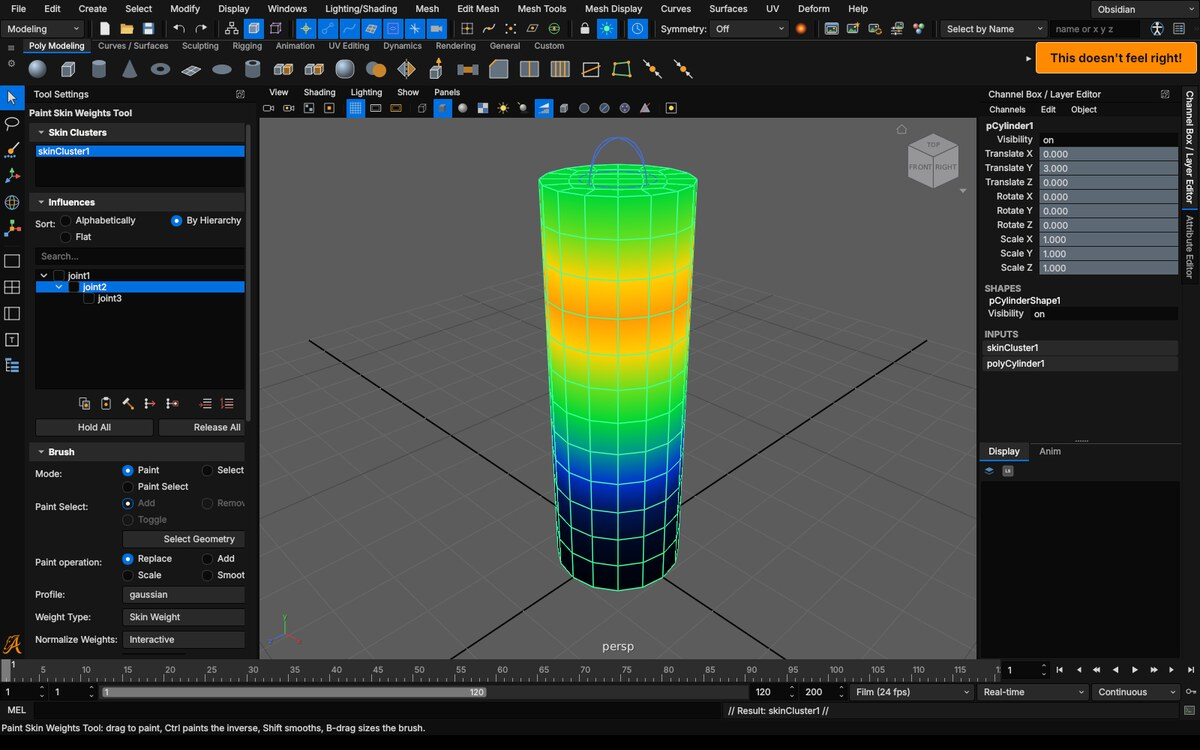
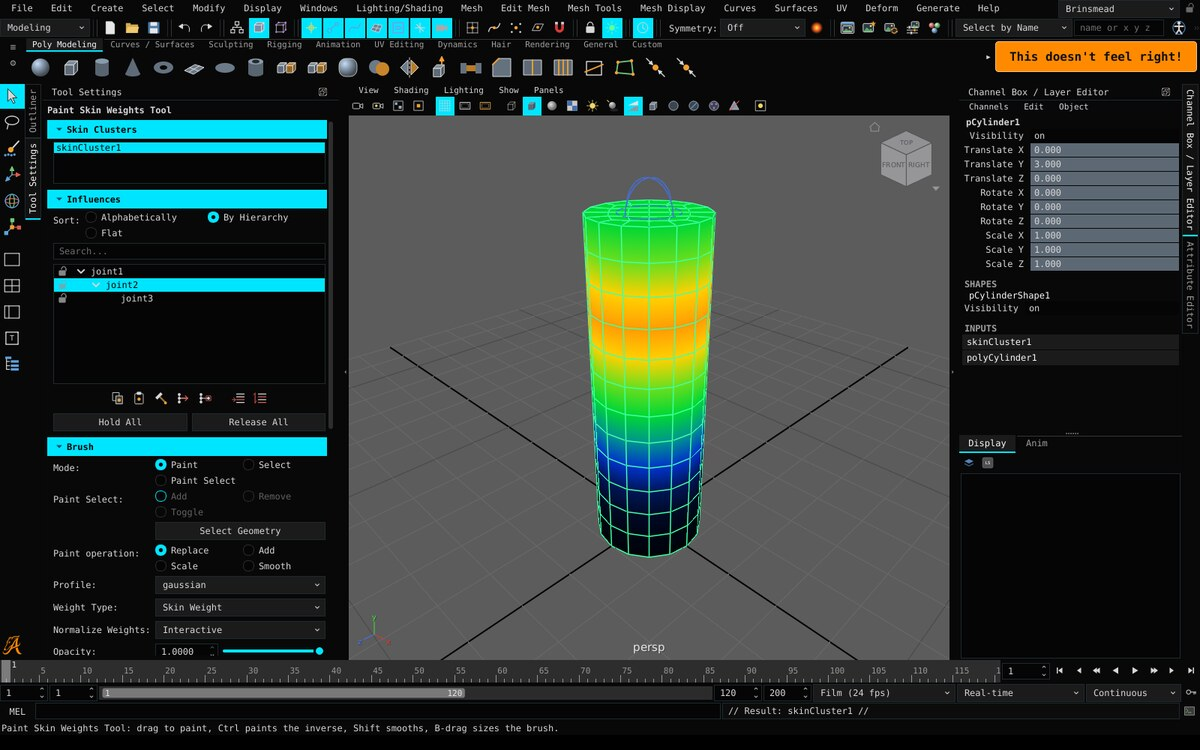
Themes: every named theme gets its own look instead of tonal variations of one; Brinsmead black and cyan with monospaced type, Flav charcoal and tangerine with geometric type and pills, KevinP navy and gold with serif type and italic menus, Boisvert and MNovacek on rounded and geometric type, Spring

diff --git a/site/index.html b/site/index.html
@@ -352,16 +352,16 @@ git push --mirror &lt;your repository's URL&gt;</code></pre>
   <h3>Dark</h3>
   <div class="theme-grid">
     <figure><a href="img/theme-classic.jpg"><img src="img/theme-classic.jpg" alt="Aztek in the Aztek Classic theme" loading="lazy"></a><figcaption><b>Aztek Classic</b> The industry-standard look, and the default.</figcaption></figure>
-    <figure><a href="img/theme-obsidian.jpg"><img src="img/theme-obsidian.jpg" alt="Aztek in the Brinsmead theme" loading="lazy"></a><figcaption><b>Brinsmead</b> Near-black and flat, after the game engine editors.</figcaption></figure>
-    <figure><a href="img/theme-carbon.jpg"><img src="img/theme-carbon.jpg" alt="Aztek in the Flav theme" loading="lazy"></a><figcaption><b>Flav</b> Charcoal, teal, soft corners.</figcaption></figure>
-    <figure><a href="img/theme-midnight.jpg"><img src="img/theme-midnight.jpg" alt="Aztek in the KevinP theme" loading="lazy"></a><figcaption><b>KevinP</b> Blue-black.</figcaption></figure>
-    <figure><a href="img/theme-dracula.jpg"><img src="img/theme-dracula.jpg" alt="Aztek in the Boisvert theme" loading="lazy"></a><figcaption><b>Boisvert</b></figcaption></figure>
-    <figure><a href="img/theme-solarized-dark.jpg"><img src="img/theme-solarized-dark.jpg" alt="Aztek in the Springer theme" loading="lazy"></a><figcaption><b>Springer</b></figcaption></figure>
-    <figure><a href="img/theme-graphite.jpg"><img src="img/theme-graphite.jpg" alt="Aztek in the JGibson theme" loading="lazy"></a><figcaption><b>JGibson</b> Neutral dark with a soft gradient.</figcaption></figure>
-    <figure><a href="img/theme-nord.jpg"><img src="img/theme-nord.jpg" alt="Aztek in the MNovacek theme" loading="lazy"></a><figcaption><b>MNovacek</b></figcaption></figure>
-    <figure><a href="img/theme-slate.jpg"><img src="img/theme-slate.jpg" alt="Aztek in the Ozymok theme" loading="lazy"></a><figcaption><b>Ozymok</b> Mid grey, gradient buttons.</figcaption></figure>
+    <figure><a href="img/theme-obsidian.jpg"><img src="img/theme-obsidian.jpg" alt="Aztek in the Brinsmead theme" loading="lazy"></a><figcaption><b>Brinsmead</b> Pure black and electric cyan, monospaced type, square corners, cyan section bars.</figcaption></figure>
+    <figure><a href="img/theme-carbon.jpg"><img src="img/theme-carbon.jpg" alt="Aztek in the Flav theme" loading="lazy"></a><figcaption><b>Flav</b> Charcoal and tangerine, geometric type, bold menus, borderless pills with big round corners.</figcaption></figure>
+    <figure><a href="img/theme-midnight.jpg"><img src="img/theme-midnight.jpg" alt="Aztek in the KevinP theme" loading="lazy"></a><figcaption><b>KevinP</b> Deep navy and gold, serif type with italic menus, round-topped tabs.</figcaption></figure>
+    <figure><a href="img/theme-dracula.jpg"><img src="img/theme-dracula.jpg" alt="Aztek in the Boisvert theme" loading="lazy"></a><figcaption><b>Boisvert</b> The Dracula scheme: pink highlights, purple section bars, rounded type, very round corners.</figcaption></figure>
+    <figure><a href="img/theme-solarized-dark.jpg"><img src="img/theme-solarized-dark.jpg" alt="Aztek in the Springer theme" loading="lazy"></a><figcaption><b>Springer</b> Solarized dark with its yellow and orange: condensed type, single bevels, square edges.</figcaption></figure>
+    <figure><a href="img/theme-graphite.jpg"><img src="img/theme-graphite.jpg" alt="Aztek in the JGibson theme" loading="lazy"></a><figcaption><b>JGibson</b> Forest green and lime, humanist type, soft gradients.</figcaption></figure>
+    <figure><a href="img/theme-nord.jpg"><img src="img/theme-nord.jpg" alt="Aztek in the MNovacek theme" loading="lazy"></a><figcaption><b>MNovacek</b> The Nord scheme: frost blues, geometric type, borderless, round-topped tabs.</figcaption></figure>
+    <figure><a href="img/theme-slate.jpg"><img src="img/theme-slate.jpg" alt="Aztek in the Ozymok theme" loading="lazy"></a><figcaption><b>Ozymok</b> Plum and hot pink, Gill-style type with italic menus, gradient buttons with a single bevel.</figcaption></figure>
     <figure><a href="img/theme-alias.jpg"><img src="img/theme-alias.jpg" alt="Aztek in the Alias theme" loading="lazy"></a><figcaption><b>Alias</b> The late-90s animation package's dark scheme: slate panels, white section bars, fixed-width type.</figcaption></figure>
-    <figure><a href="img/theme-pewter.jpg"><img src="img/theme-pewter.jpg" alt="Aztek in the PewterTureski theme" loading="lazy"></a><figcaption><b>PewterTureski</b> Warm mid grey with an orange accent.</figcaption></figure>
+    <figure><a href="img/theme-pewter.jpg"><img src="img/theme-pewter.jpg" alt="Aztek in the PewterTureski theme" loading="lazy"></a><figcaption><b>PewterTureski</b> Warm pewter grey and orange, wide Verdana-style type, double bevels, orange section bars.</figcaption></figure>
     <figure><a href="img/theme-shaq.jpg"><img src="img/theme-shaq.jpg" alt="Aztek in the Shaq theme" loading="lazy"></a><figcaption><b>Shaq</b> Near-black with bold violet highlights and gold section bars.</figcaption></figure>
   </div>
   <h3>Light</h3>
@@ -370,10 +370,10 @@ git push --mirror &lt;your repository's URL&gt;</code></pre>
     <figure><a href="img/theme-classic98.jpg"><img src="img/theme-classic98.jpg" alt="Aztek in the DonnieA theme" loading="lazy"></a><figcaption><b>DonnieA</b> Silver and navy, two-tone bevels, 1998.</figcaption></figure>
     <figure><a href="img/theme-workstation.jpg"><img src="img/theme-workstation.jpg" alt="Aztek in the Cattingway theme" loading="lazy"></a><figcaption><b>Cattingway</b> The light grey workstation desktop the industry-standard package first ran on.</figcaption></figure>
     <figure><a href="img/theme-poweranimator.jpg"><img src="img/theme-poweranimator.jpg" alt="Aztek in the Hourihan theme" loading="lazy"></a><figcaption><b>Hourihan</b> Light grey with mid grey fields and darker section bars, round-topped tabs.</figcaption></figure>
-    <figure><a href="img/theme-ash.jpg"><img src="img/theme-ash.jpg" alt="Aztek in the AshT theme" loading="lazy"></a><figcaption><b>AshT</b> Light grey modern.</figcaption></figure>
-    <figure><a href="img/theme-solarized-light.jpg"><img src="img/theme-solarized-light.jpg" alt="Aztek in the Buffin theme" loading="lazy"></a><figcaption><b>Buffin</b></figcaption></figure>
-    <figure><a href="img/theme-paper.jpg"><img src="img/theme-paper.jpg" alt="Aztek in the Royhall theme" loading="lazy"></a><figcaption><b>Royhall</b> Near white.</figcaption></figure>
-    <figure><a href="img/theme-lilac.jpg"><img src="img/theme-lilac.jpg" alt="Aztek in the Jostam theme" loading="lazy"></a><figcaption><b>Jostam</b> White, teal, soft corners.</figcaption></figure>
+    <figure><a href="img/theme-ash.jpg"><img src="img/theme-ash.jpg" alt="Aztek in the AshT theme" loading="lazy"></a><figcaption><b>AshT</b> Pale sky blue and navy, humanist type, navy section bars, round pills.</figcaption></figure>
+    <figure><a href="img/theme-solarized-light.jpg"><img src="img/theme-solarized-light.jpg" alt="Aztek in the Buffin theme" loading="lazy"></a><figcaption><b>Buffin</b> Solarized light with its cyan and magenta: serif type, round-topped tabs.</figcaption></figure>
+    <figure><a href="img/theme-paper.jpg"><img src="img/theme-paper.jpg" alt="Aztek in the Royhall theme" loading="lazy"></a><figcaption><b>Royhall</b> Cream paper and red ink, typewriter type, bold menus, square corners, black section bars.</figcaption></figure>
+    <figure><a href="img/theme-lilac.jpg"><img src="img/theme-lilac.jpg" alt="Aztek in the Jostam theme" loading="lazy"></a><figcaption><b>Jostam</b> Mint and teal, rounded type, gradients, the roundest corners.</figcaption></figure>
     <figure><a href="img/theme-martino.jpg"><img src="img/theme-martino.jpg" alt="Aztek in the Martino theme" loading="lazy"></a><figcaption><b>Martino</b> After Softimage XSI: mid grey panels, pale fields, single bevels, square corners.</figcaption></figure>
   </div>
 </section>

diff --git a/app/src/themes.cpp b/app/src/themes.cpp
@@ -125,26 +125,56 @@ QList<Theme> builtins() {
         t.scrollbar = "standard";
         l << t;
     }
-    // Near black, after the modern game engine editors: flat, thin lines, a bright blue, tabs marked by a line.
+    // Brinsmead: pure black and electric cyan, monospaced type, square corners, cyan section bars.
     {
-        Theme t = tonal("obsidian", "Brinsmead", 0, 0, 8.5, "#0070e0");
-        t.font = QStringList{"Roboto", "Inter", "Segoe UI", "Noto Sans", "DejaVu Sans", "Arial"};
-        t.radius = 3;
+        Theme t = tonal("obsidian", "Brinsmead", 190, 0.0, 3, "#00e5ff");
+        t.font = QStringList{"JetBrains Mono", "Cascadia Mono", "SF Mono", "Menlo", "Consolas", "DejaVu Sans Mono", "Liberation Mono", "Courier New"};
+        t.point_size = 9;
+        t.fill = "flat";
+        t.bevel = "none";
+        t.radius = 0;
+        t.border = 1;
         t.tabs = "underline";
+        t.arrows = "chevron";
+        t.scrollbar = "thin";
+        t.padding = 3;
+        t.c["section"] = QColor("#00e5ff");
+        t.c["sectiontext"] = QColor("#000000");
+        t.c["hitext"] = QColor("#000000");
+        t.c["border"] = QColor("#1f2a2e");
         l << t;
     }
-    // Charcoal with a teal accent and soft corners.
+    // Flav: charcoal with tangerine, a geometric typeface, bold menus, borderless pills with big round corners.
     {
-        Theme t = tonal("carbon", "Flav", 200, 0.04, 13, "#2fa59a");
-        t.radius = 8;
+        Theme t = tonal("carbon", "Flav", 20, 0.06, 13, "#ff7a1a");
+        t.font = QStringList{"Montserrat", "Poppins", "Futura", "Century Gothic", "Avenir Next", "Avenir", "URW Gothic", "Gill Sans", "Verdana"};
+        t.point_size = 9;
+        t.menu_bold = true;
+        t.fill = "gradient";
+        t.radius = 11;
+        t.border = 0;
         t.tabs = "pill";
-        t.padding = 4;
+        t.arrows = "chevron";
+        t.scrollbar = "thin";
+        t.padding = 5;
+        t.c["hitext"] = QColor("#1a0d00");
         l << t;
     }
+    // KevinP: deep navy and gold, serif type with italic menus, round-topped tabs, gold-lettered section bars.
     {
-        Theme t = tonal("midnight", "KevinP", 222, 0.28, 15, "#3d7eff");
-        t.radius = 6;
-        t.tabs = "underline";
+        Theme t = tonal("midnight", "KevinP", 226, 0.5, 13, "#f2c14e");
+        t.font = QStringList{"Georgia", "Charter", "Iowan Old Style", "Palatino Linotype", "Palatino", "Noto Serif", "DejaVu Serif", "Liberation Serif", "Times New Roman"};
+        t.point_size = 10;
+        t.menu_italic = true;
+        t.fill = "flat";
+        t.radius = 4;
+        t.tabs = "rounded";
+        t.arrows = "triangle";
+        t.scrollbar = "standard";
+        t.padding = 3;
+        t.c["hitext"] = QColor("#141a33");
+        t.c["section"] = QColor("#1d2a5c");
+        t.c["sectiontext"] = QColor("#f2c14e");
         l << t;
     }
     // Shaq: near-black with a bold electric violet and gold, heavy section bars, crisp corners and bold menus.
@@ -180,61 +210,108 @@ QList<Theme> builtins() {
         t.padding = 2;
         l << t;
     }
-    // Colour schemes as their authors publish them (Dracula, Nord and Solarized are MIT).
+    // Boisvert: the Dracula scheme as its author publishes it (MIT), pink highlights, purple section bars, rounded type and very round corners.
     {
         Theme t = hand("dracula", "Boisvert",
                        {{"window", "#282a36"}, {"chrome", "#21222c"}, {"base", "#1b1c24"}, {"alt", "#2c2e3c"}, {"menu", "#343746"}, {"button", "#44475a"}, {"hover", "#565a72"},
-                        {"hi", "#bd93f9"}, {"hitext", "#1b1c24"}, {"text", "#f8f8f2"}, {"bright", "#ffffff"}, {"dim", "#a0a5c4"}, {"disabled", "#6272a4"}, {"border", "#16171e"},
-                        {"handle", "#5a5e78"}});
-        t.font = kSans;
+                        {"hi", "#ff79c6"}, {"hitext", "#1b1c24"}, {"text", "#f8f8f2"}, {"bright", "#ffffff"}, {"dim", "#a0a5c4"}, {"disabled", "#6272a4"}, {"border", "#16171e"},
+                        {"handle", "#5a5e78"}, {"section", "#bd93f9"}, {"sectiontext", "#1b1c24"}});
+        t.font = QStringList{"Nunito", "Varela Round", "Quicksand", "Comfortaa", "Arial Rounded MT Bold", "Segoe UI", "Noto Sans", "Verdana"};
         t.point_size = 9;
-        t.radius = 6;
+        t.fill = "flat";
+        t.radius = 14;
+        t.border = 1;
         t.tabs = "pill";
+        t.arrows = "chevron";
+        t.scrollbar = "thin";
+        t.padding = 5;
         l << t;
     }
+    // Springer: the Solarized dark scheme as its author publishes it (MIT), with its yellow and orange: condensed type, single bevels, square edges.
     {
         Theme t = hand("solarized-dark", "Springer",
                        {{"window", "#073642"}, {"chrome", "#04303b"}, {"base", "#002b36"}, {"alt", "#06313c"}, {"menu", "#0b4251"}, {"button", "#114f5f"}, {"hover", "#1a6274"},
-                        {"hi", "#268bd2"}, {"text", "#93a1a1"}, {"bright", "#eee8d5"}, {"dim", "#839496"}, {"disabled", "#586e75"}, {"border", "#00212b"}, {"handle", "#2a6474"}});
-        t.font = kSans;
-        t.point_size = 9;
-        t.radius = 4;
-        t.tabs = "underline";
+                        {"hi", "#b58900"}, {"hitext", "#002b36"}, {"text", "#93a1a1"}, {"bright", "#eee8d5"}, {"dim", "#839496"}, {"disabled", "#586e75"}, {"border", "#00212b"},
+                        {"handle", "#2a6474"}, {"section", "#cb4b16"}, {"sectiontext", "#fdf6e3"}, {"light", "#2a6a7a"}, {"shadow", "#001a22"}});
+        t.font = QStringList{"Roboto Condensed", "Barlow Condensed", "Arial Narrow", "Helvetica Neue Condensed", "DejaVu Sans Condensed", "Liberation Sans Narrow", "Arial"};
+        t.point_size = 10;
+        t.menu_bold = true;
+        t.fill = "flat";
+        t.bevel = "single";
+        t.radius = 0;
+        t.tabs = "boxed";
+        t.arrows = "boxed";
+        t.scrollbar = "bevel";
+        t.padding = 2;
         l << t;
     }
+    // JGibson: deep forest green and lime, a humanist typeface, soft gradients.
     {
-        Theme t = tonal("graphite", "JGibson", 225, 0.07, 20, "#4f7bd9");
-        t.radius = 5;
+        Theme t = tonal("graphite", "JGibson", 145, 0.32, 13, "#9be15d");
+        t.font = QStringList{"Lato", "Open Sans", "Source Sans 3", "Source Sans Pro", "Fira Sans", "Calibri", "Noto Sans", "DejaVu Sans"};
+        t.point_size = 9;
         t.fill = "gradient";
+        t.radius = 6;
+        t.border = 1;
+        t.tabs = "underline";
+        t.arrows = "triangle";
+        t.scrollbar = "thin";
+        t.padding = 4;
+        t.c["hitext"] = QColor("#0d1f0d");
+        t.c["section"] = QColor("#21402b");
+        t.c["sectiontext"] = QColor("#c8f59e");
         l << t;
     }
+    // MNovacek: the Nord scheme as its author publishes it (MIT): frost blues, a geometric typeface, borderless, round-topped tabs.
     {
         Theme t = hand("nord", "MNovacek",
                        {{"window", "#3b4252"}, {"chrome", "#323946"}, {"base", "#2e3440"}, {"alt", "#3f4758"}, {"menu", "#434c5e"}, {"button", "#4c566a"}, {"hover", "#5a657c"},
                         {"hi", "#88c0d0"}, {"hitext", "#2e3440"}, {"text", "#d8dee9"}, {"bright", "#eceff4"}, {"dim", "#a3adbf"}, {"disabled", "#6c778c"}, {"border", "#272c36"},
-                        {"handle", "#616d85"}});
-        t.font = kSans;
+                        {"handle", "#616d85"}, {"section", "#5e81ac"}, {"sectiontext", "#eceff4"}});
+        t.font = QStringList{"Montserrat", "Poppins", "Futura", "Century Gothic", "Avenir Next", "Avenir", "URW Gothic", "Gill Sans", "Verdana"};
         t.point_size = 9;
-        t.radius = 5;
-        t.tabs = "boxed";
+        t.fill = "flat";
+        t.radius = 7;
+        t.border = 0;
+        t.tabs = "rounded";
+        t.arrows = "chevron";
+        t.scrollbar = "thin";
+        t.padding = 4;
         l << t;
     }
-    // Mid greys with a soft gradient, a studio application of the 2000s.
+    // Ozymok: plum and hot pink, Gill-style type with italic menus, gradient buttons with a single bevel.
     {
-        Theme t = tonal("slate", "Ozymok", 210, 0.06, 35, "#4c8bd6");
+        Theme t = tonal("slate", "Ozymok", 330, 0.28, 18, "#ff4f8b");
+        t.font = QStringList{"Gill Sans", "Gill Sans MT", "Josefin Sans", "Raleway", "Optima", "Candara", "Noto Sans", "DejaVu Sans"};
+        t.point_size = 9;
+        t.menu_italic = true;
         t.fill = "gradient";
+        t.bevel = "single";
         t.radius = 3;
         t.tabs = "boxed";
-        t.arrows = "triangle";
+        t.arrows = "boxed";
         t.scrollbar = "standard";
+        t.padding = 3;
+        t.c["hitext"] = QColor("#ffffff");
+        t.c["section"] = QColor("#5a1f3a");
+        t.c["sectiontext"] = QColor("#ffd1e3");
         l << t;
     }
+    // PewterTureski: warm pewter grey and orange, wide Verdana-style type, double bevels, orange section bars.
     {
-        Theme t = tonal("pewter", "PewterTureski", 30, 0.04, 44, "#e08a2e");
+        Theme t = tonal("pewter", "PewterTureski", 30, 0.05, 44, "#e08a2e");
+        t.font = QStringList{"Verdana", "Tahoma", "DejaVu Sans", "Bitstream Vera Sans", "Arial"};
+        t.point_size = 10;
         t.fill = "gradient";
-        t.radius = 4;
+        t.bevel = "double";
+        t.radius = 2;
+        t.border = 1;
         t.tabs = "boxed";
-        t.scrollbar = "standard";
+        t.arrows = "boxed";
+        t.scrollbar = "bevel";
+        t.padding = 3;
+        t.c["section"] = QColor("#e08a2e");
+        t.c["sectiontext"] = QColor("#1e1206");
         l << t;
     }
     // The animation package of the mid 1990s on the workstations: grey panels, pink entry fields, bold italic menus,
@@ -323,39 +400,71 @@ QList<Theme> builtins() {
         t.padding = 2;
         l << t;
     }
+    // AshT: pale sky blue with navy, a humanist typeface, navy section bars, round pills.
     {
-        Theme t = tonal("ash", "AshT", 220, 0.06, 84, "#2f6fd8");
-        t.fill = "gradient";
-        t.radius = 5;
-        t.tabs = "boxed";
+        Theme t = tonal("ash", "AshT", 205, 0.45, 86, "#0b3d91");
+        t.font = QStringList{"Lato", "Open Sans", "Source Sans 3", "Source Sans Pro", "Fira Sans", "Calibri", "Noto Sans", "DejaVu Sans"};
+        t.point_size = 9;
+        t.fill = "flat";
+        t.radius = 9;
+        t.border = 1;
+        t.tabs = "pill";
+        t.arrows = "chevron";
+        t.scrollbar = "thin";
+        t.padding = 5;
+        t.c["section"] = QColor("#0b3d91");
+        t.c["sectiontext"] = QColor("#ffffff");
         l << t;
     }
+    // Buffin: the Solarized light scheme as its author publishes it (MIT), with its cyan and magenta: serif type, round-topped tabs.
     {
         Theme t = hand("solarized-light", "Buffin",
-                       {{"window", "#eee8d5"}, {"chrome", "#e4ddc6"}, {"base", "#fdf6e3"}, {"alt", "#f7f0dc"}, {"menu", "#fdf6e3"}, {"button", "#f6efd9"}, {"hover", "#dcd4bc"},
-                        {"hi", "#268bd2"}, {"text", "#586e75"}, {"bright", "#073642"}, {"dim", "#657b83"}, {"disabled", "#93a1a1"}, {"border", "#cdc5ad"}, {"handle", "#c4bca3"},
-                        {"light", "#ffffff"}, {"shadow", "#a89f86"}});
-        t.font = kSans;
+                       {{"window", "#eee8d5"}, {"chrome", "#e4ddc8"}, {"base", "#fdf6e3"}, {"alt", "#f5efdc"}, {"menu", "#fdf6e3"}, {"button", "#e6dfca"}, {"hover", "#d9d1b9"},
+                        {"hi", "#2aa198"}, {"hitext", "#fdf6e3"}, {"text", "#586e75"}, {"bright", "#073642"}, {"dim", "#839496"}, {"disabled", "#a7a99a"}, {"border", "#c9c1a8"},
+                        {"handle", "#b8b09a"}, {"section", "#d33682"}, {"sectiontext", "#fdf6e3"}});
+        t.font = QStringList{"Georgia", "Charter", "Iowan Old Style", "Palatino Linotype", "Palatino", "Noto Serif", "DejaVu Serif", "Liberation Serif", "Times New Roman"};
+        t.point_size = 10;
+        t.fill = "flat";
+        t.radius = 3;
+        t.tabs = "rounded";
+        t.arrows = "triangle";
+        t.scrollbar = "standard";
+        t.padding = 3;
+        l << t;
+    }
+    // Royhall: cream paper and red ink, typewriter type, bold menus, square corners, black section bars.
+    {
+        Theme t = tonal("paper", "Royhall", 42, 0.55, 91, "#c0392b");
+        t.font = QStringList{"Courier Prime", "American Typewriter", "Courier New", "Courier", "Nimbus Mono PS", "Liberation Mono", "DejaVu Sans Mono"};
+        t.point_size = 10;
+        t.menu_bold = true;
+        t.fill = "flat";
+        t.radius = 0;
+        t.border = 1;
+        t.tabs = "underline";
+        t.arrows = "triangle";
+        t.scrollbar = "thin";
+        t.padding = 3;
+        t.c["section"] = QColor("#2b2b2b");
+        t.c["sectiontext"] = QColor("#f6ecd2");
+        t.c["text"] = QColor("#2a2118");
+        t.c["bright"] = QColor("#000000");
+        l << t;
+    }
+    // Jostam: mint and teal, rounded type, gradients, the roundest corners and the most room.
+    {
+        Theme t = tonal("lilac", "Jostam", 160, 0.4, 95, "#0f9d8a");
+        t.font = QStringList{"Nunito", "Varela Round", "Quicksand", "Comfortaa", "Arial Rounded MT Bold", "Segoe UI", "Noto Sans", "Verdana"};
         t.point_size = 9;
-        t.radius = 4;
-        t.tabs = "underline";
-        l << t;
-    }
-    {
-        Theme t = tonal("paper", "Royhall", 0, 0, 94, "#2f6fd8");
-        t.radius = 6;
-        t.tabs = "underline";
-        l << t;
-    }
-    // White, soft corners and a teal accent, the light half of the modern widget galleries.
-    {
-        Theme t = tonal("lilac", "Jostam", 200, 0.10, 97.5, "#3aa597");
-        t.c["button"] = QColor("#ffffff");
-        t.c["base"] = QColor("#ffffff");
-        t.c["menu"] = QColor("#ffffff");
-        t.radius = 8;
+        t.fill = "gradient";
+        t.radius = 12;
+        t.border = 1;
         t.tabs = "pill";
-        t.padding = 4;
+        t.arrows = "chevron";
+        t.scrollbar = "thin";
+        t.padding = 6;
+        t.c["section"] = QColor("#c8efe4");
+        t.c["sectiontext"] = QColor("#0b5a50");
         l << t;
     }
     return l;

diff --git a/README.md b/README.md
@@ -494,13 +494,13 @@ copy of your own, kept as JSON in `~/.aztek/themes`, which Import and Export pas
 | | | |
 |---|---|---|
 | ![Aztek Classic](docs/theme-classic.jpg) | ![Brinsmead](docs/theme-obsidian.jpg) | ![Flav](docs/theme-carbon.jpg) |
-| **Aztek Classic**: the reference's look, and the default | **Brinsmead**: near-black and flat, after the game engine editors | **Flav**: charcoal, teal, soft corners |
+| **Aztek Classic**: the reference's look, and the default | **Brinsmead**: pure black and electric cyan, monospaced type, square corners, cyan section bars | **Flav**: charcoal and tangerine, geometric type, bold menus, borderless pills with big round corners |
 | ![KevinP](docs/theme-midnight.jpg) | ![Boisvert](docs/theme-dracula.jpg) | ![Springer](docs/theme-solarized-dark.jpg) |
-| **KevinP**: blue-black | **Boisvert** | **Springer** |
+| **KevinP**: deep navy and gold, serif type with italic menus, round-topped tabs | **Boisvert**: the Dracula scheme: pink highlights, purple section bars, rounded type, very round corners | **Springer**: Solarized dark with its yellow and orange: condensed type, single bevels, square edges |
 | ![JGibson](docs/theme-graphite.jpg) | ![MNovacek](docs/theme-nord.jpg) | ![Ozymok](docs/theme-slate.jpg) |
-| **JGibson**: neutral dark with a soft gradient | **MNovacek** | **Ozymok**: mid grey, gradient buttons |
+| **JGibson**: forest green and lime, humanist type, soft gradients | **MNovacek**: the Nord scheme: frost blues, geometric type, borderless, round-topped tabs | **Ozymok**: plum and hot pink, Gill-style type with italic menus, gradient buttons with a single bevel |
 | ![Alias](docs/theme-alias.jpg) | ![PewterTureski](docs/theme-pewter.jpg) | ![Shaq](docs/theme-shaq.jpg) |
-| **Alias**: the late-90s animation package's dark scheme: slate panels, white section bars, fixed-width type | **PewterTureski**: warm mid grey with an orange accent | **Shaq**: near-black with bold violet highlights and gold section bars |
+| **Alias**: the late-90s animation package's dark scheme: slate panels, white section bars, fixed-width type | **PewterTureski**: warm pewter grey and orange, wide Verdana-style type, double bevels, orange section bars | **Shaq**: near-black with bold violet highlights and gold section bars |
 
 ### Light
 
@@ -509,9 +509,9 @@ copy of your own, kept as JSON in `~/.aztek/themes`, which Import and Export pas
 | ![sendvvv](docs/theme-studio96.jpg) | ![DonnieA](docs/theme-classic98.jpg) | ![Cattingway](docs/theme-workstation.jpg) |
 | **sendvvv**: the mid-90s workstation animation packages: pink fields, bold italic menus, bevels | **DonnieA**: silver and navy, two-tone bevels, 1998 | **Cattingway**: the light grey workstation desktop the reference first ran on |
 | ![Hourihan](docs/theme-poweranimator.jpg) | ![AshT](docs/theme-ash.jpg) | ![Buffin](docs/theme-solarized-light.jpg) |
-| **Hourihan**: light grey with mid grey fields and darker section bars, round-topped tabs | **AshT**: light grey modern | **Buffin** |
+| **Hourihan**: light grey with mid grey fields and darker section bars, round-topped tabs | **AshT**: pale sky blue and navy, humanist type, navy section bars, round pills | **Buffin**: Solarized light with its cyan and magenta: serif type, round-topped tabs |
 | ![Royhall](docs/theme-paper.jpg) | ![Jostam](docs/theme-lilac.jpg) | ![Martino](docs/theme-martino.jpg) |
-| **Royhall**: near white | **Jostam**: white, teal, soft corners | **Martino**: after Softimage XSI: mid grey panels, pale fields, single bevels, square corners |
+| **Royhall**: cream paper and red ink, typewriter type, bold menus, square corners, black section bars | **Jostam**: mint and teal, rounded type, gradients, the roundest corners | **Martino**: after Softimage XSI: mid grey panels, pale fields, single bevels, square corners |
 
 ## Install
 
